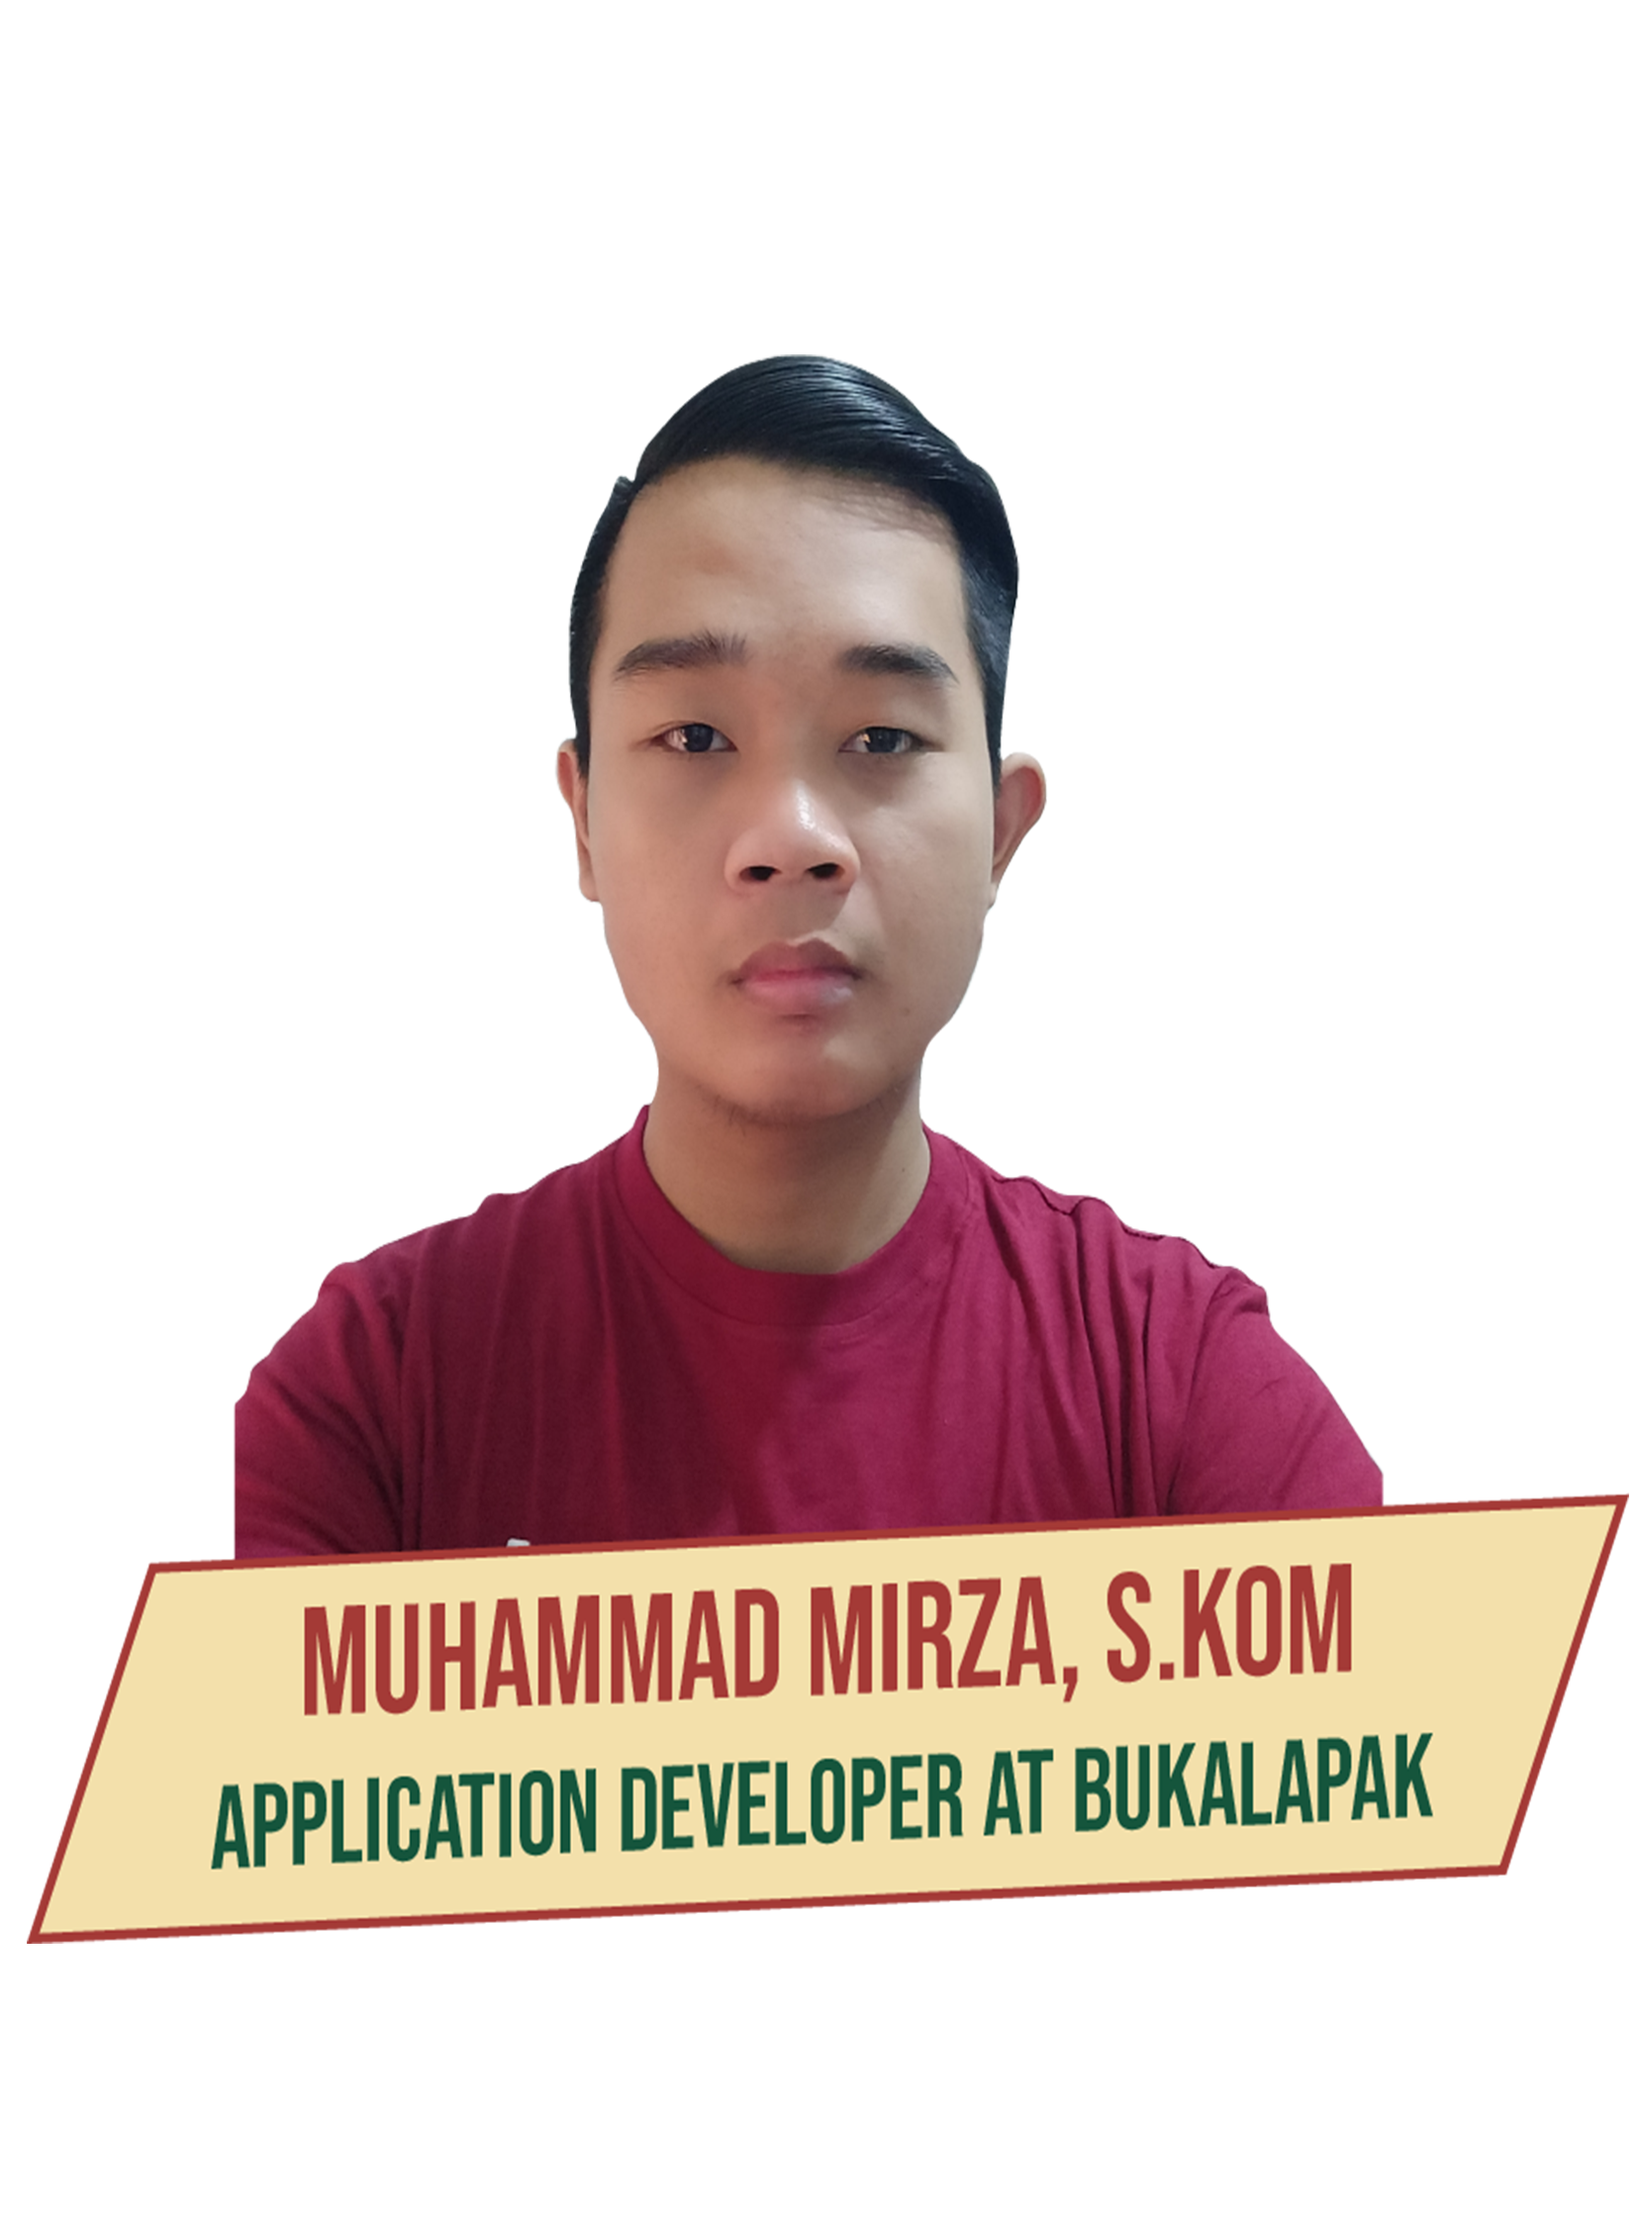
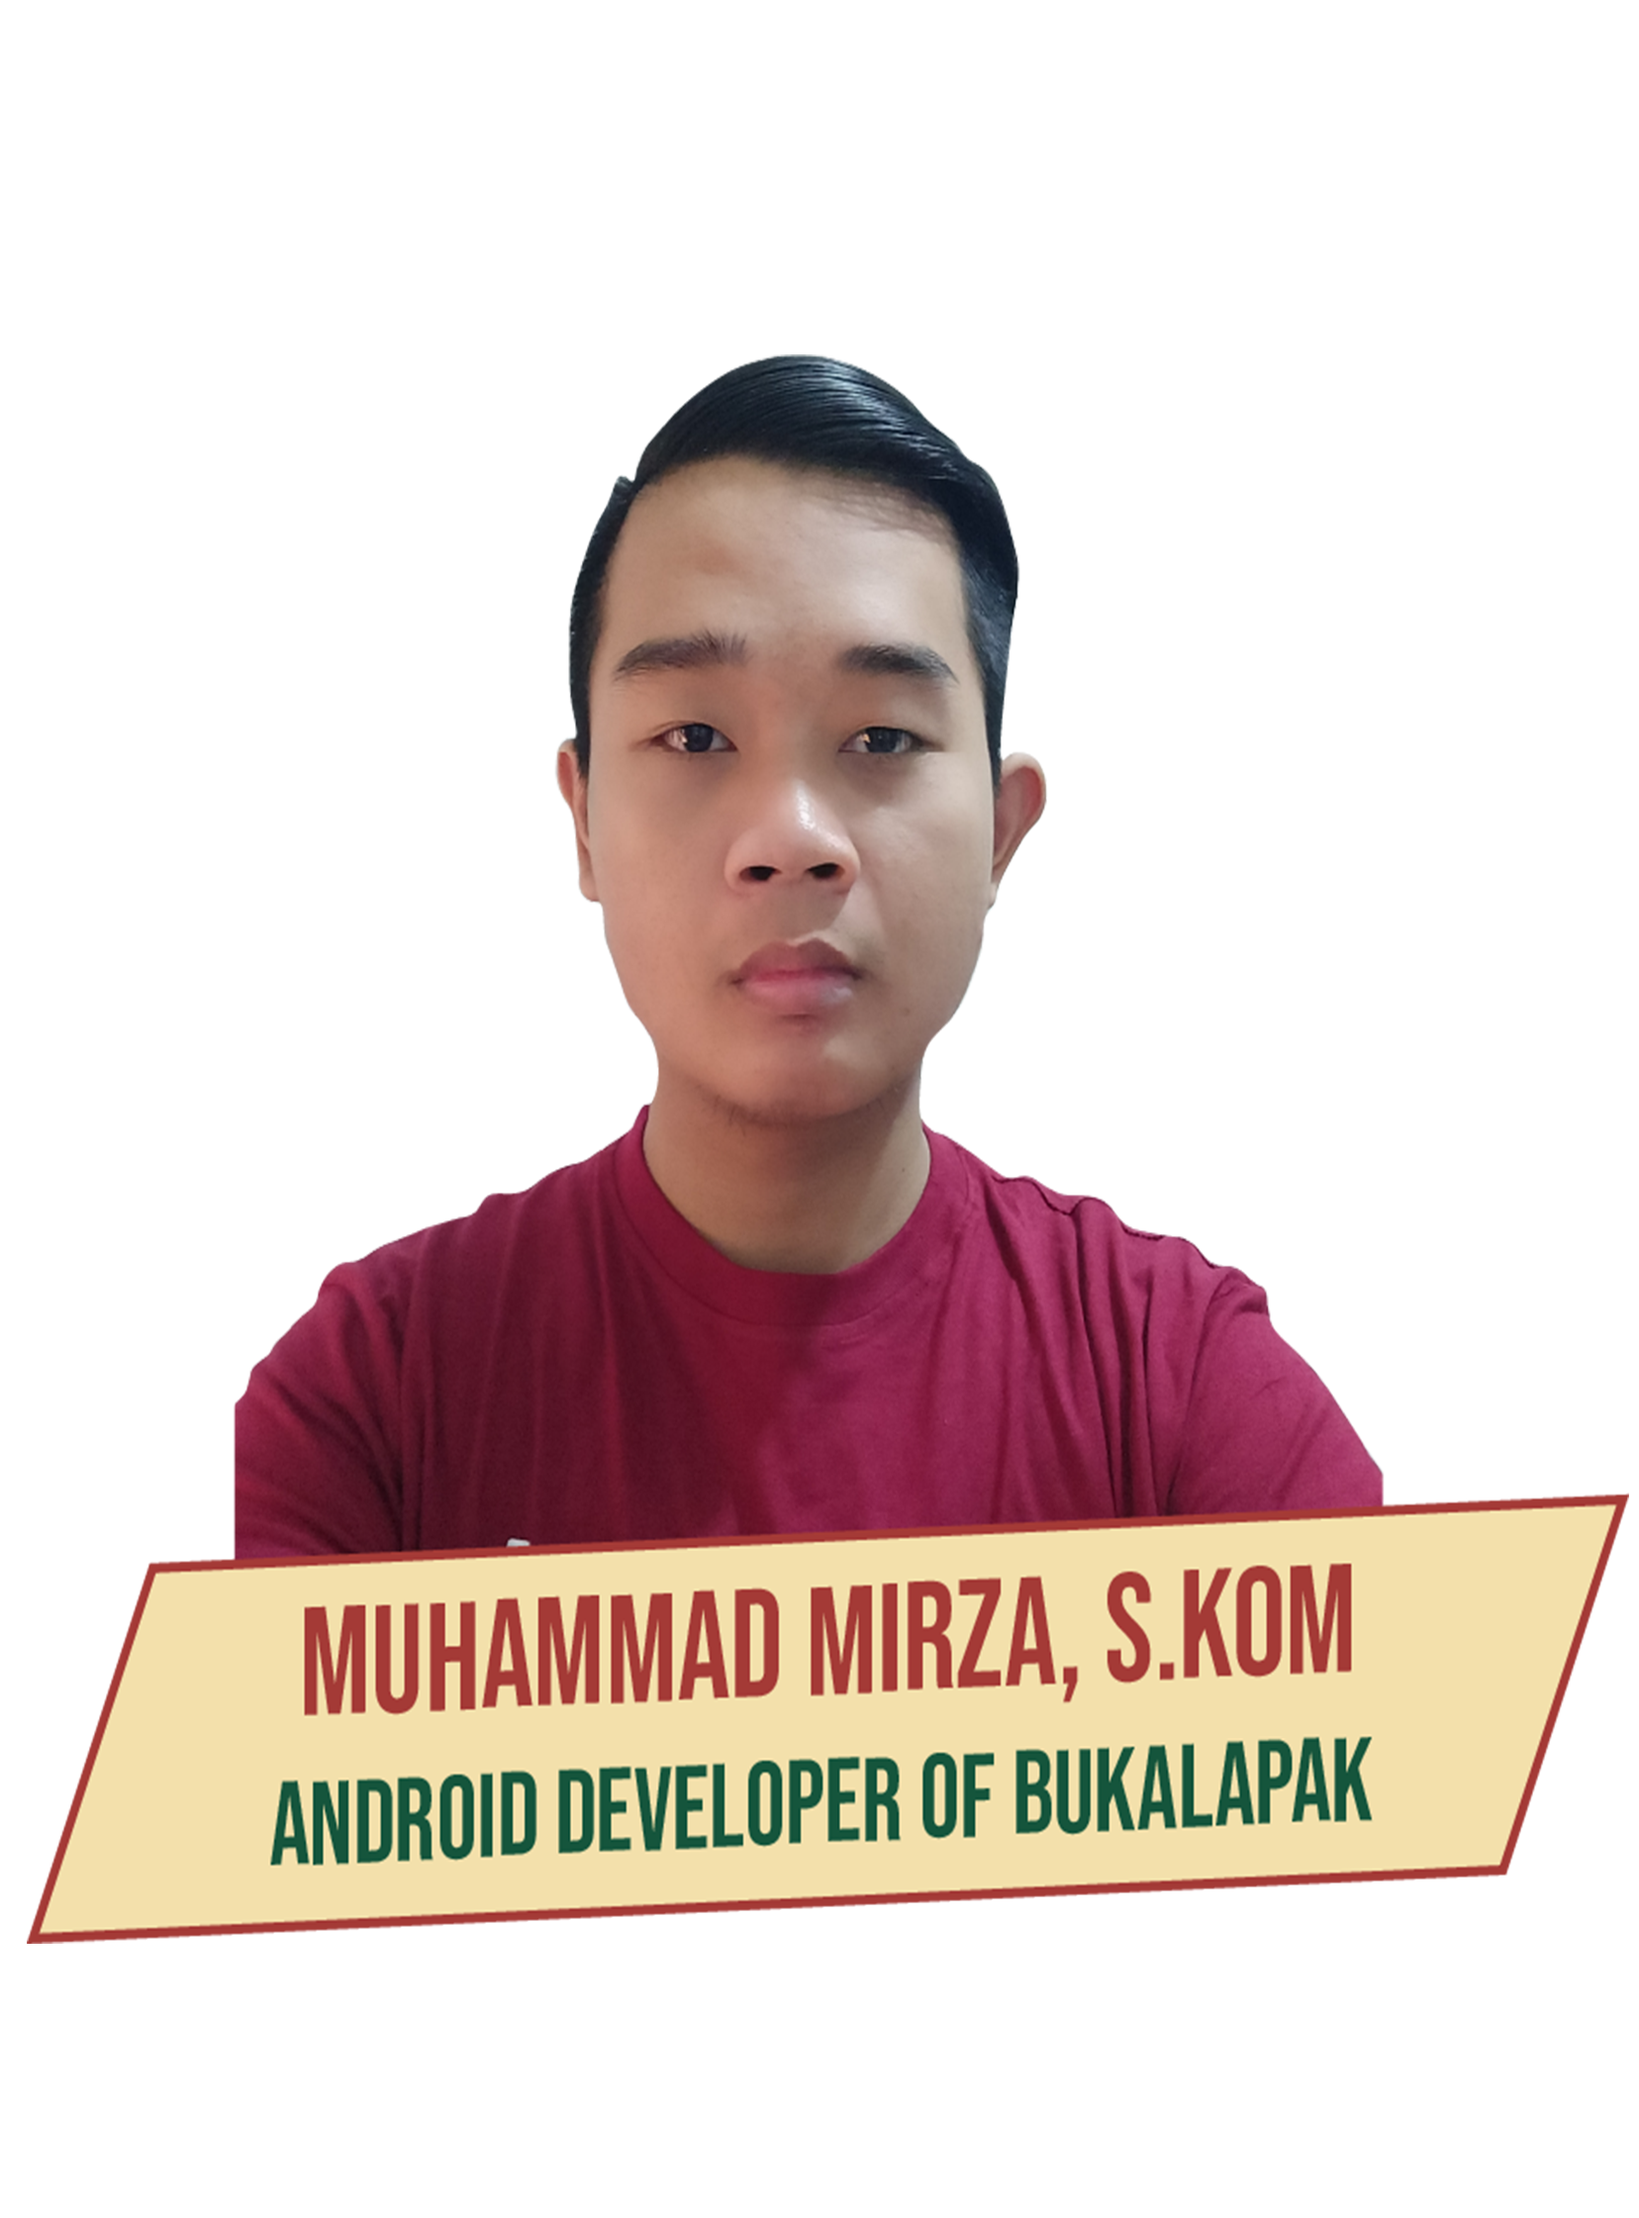
Perubahan Web Pendaftaran

Changed region(s): [[0.1232, 0.7809, 0.8931, 0.8434]]

diff --git a/app/Views/index.php b/app/Views/index.php
@@ -131,14 +131,14 @@
                                 <div class="col-md-5 col-sm-6 col-12" data-aos="fade-down" data-aos-easing="linear" data-aos-duration="500" data-aos-offset="300">
                                     <div class="workpic">
                                         <div class="big-circle-shape"></div>
-                                        <img src="<?= base_url(); ?>/assets/img/PEMBICARA1fix.png" class="img-fluid" width="" height="" alt="" >
+                                        <img src="<?= base_url(); ?>/assets/img/PEMBICARA1fixx.png" class="img-fluid" width="" height="" alt="" >
                                     </div>
                                 </div>                            
                                 <div class="col-md-5 offset-md-1 col-sm-12 offset-sm-0">
                                     <div class="workintro" data-aos="fade-right" data-aos-offset="300" data-aos-easing="ease-in-sine">
                                         <div class="worktext text-right">
                                             <h3>MUHAMMAD MIRZA</h3>
-                                            <h6>ANDROID DEVELOPER AT BUKALAPAK</h6>
+                                            <h6>ANDROID DEVELOPER OF BUKALAPAK</h6>
                                             <p>He is an alumnus of Dian Nuswantoro University who graduated in 2017. During his college years, he was a lab assistant from 2014 to 2015. He worked at Bukalapak as an Android Developer from 2018 until now.</p> 
                                         </div>
                                     </div>

diff --git a/app/Views/admin/dashboard.php b/app/Views/admin/dashboard.php
@@ -14,6 +14,39 @@
 
         <!-- Main content -->
         <section class="content">
+            <div class="container-fluid">
+            <!-- Small boxes (Stat box) -->
+                <div class="row">
+                    <div class="col-lg-6 col-6">
+                        <!-- small box -->
+                        <div class="small-box bg-info">
+                            <div class="inner">
+                                <h3><?= count($peserta); ?></h3>
+
+                                <p>Total Peserta</p>
+                            </div>
+                            <div class="icon">
+                                <i class="ion ion-person-add"></i>
+                            </div>
+                        </div>
+                    </div>
+                    <!-- ./col -->
+                    <div class="col-lg-6 col-6">
+                        <!-- small box -->
+                        <div class="small-box bg-success">
+                            <div class="inner">
+                                <h3><?= count($lunas); ?></h3>
+
+                                <p>Lunas Pembayaran</p>
+                            </div>
+                            <div class="icon">
+                                <i class="ion ion-stats-bars"></i>
+                            </div>
+                        </div>
+                    </div>
+                    <!-- ./col -->
+                </div>
+            </div>
             <?php
             $inputs = session()->getFlashdata('inputs');
             $errors = session()->getFlashdata('errors');

diff --git a/app/Models/Peserta_model.php b/app/Models/Peserta_model.php
@@ -10,7 +10,7 @@ class Peserta_model extends Model{
     // Listing
 	public function listing(){
 		$this->select('*');
-		$this->orderBy("id", "DESC");
+		$this->orderBy("id", "ASC");
 		$query = $this->get();
 		return $query->getResultArray();
 	}
@@ -19,6 +19,14 @@ class Peserta_model extends Model{
 	public function category($cat){
 		$this->select('*');
 		$this->where(['category' => $cat]);
+		$query = $this->get();
+		return $query->getResultArray();
+    }
+
+	// Lunas Pembayaran
+	public function lunas(){
+		$this->select('*');
+		$this->where(['htm' => 1]);
 		$query = $this->get();
 		return $query->getResultArray();
     }

diff --git a/app/Views/admin/layout/head.php b/app/Views/admin/layout/head.php
@@ -8,6 +8,8 @@
     <meta name="viewport" content="width=device-width, initial-scale=1">
     <!-- Google Font: Source Sans Pro -->
     <link rel="stylesheet" href="https://fonts.googleapis.com/css?family=Source+Sans+Pro:300,400,400i,700&display=fallback">
+    <!-- Ionicons -->
+    <link rel="stylesheet" href="https://code.ionicframework.com/ionicons/2.0.1/css/ionicons.min.css">
     <!-- Font Awesome -->
     <link rel="stylesheet" href="<?= base_url(); ?>/assets/admin/plugins/fontawesome-free/css/all.min.css">
     <!-- DataTables -->

diff --git a/app/Controllers/Admin.php b/app/Controllers/Admin.php
@@ -78,6 +78,7 @@ class Admin extends BaseController{
         $data = array(  'title'			=> 'Halaman Dashboard',
                         'user'          => $model->detail($session->get('admin_user')),
                         'peserta'       => $peserta->listing(),
+                        'lunas'         => $peserta->lunas(),
                         'content'		=> 'admin/dashboard');
         return view('admin/layout/wrapper',$data);
     }
